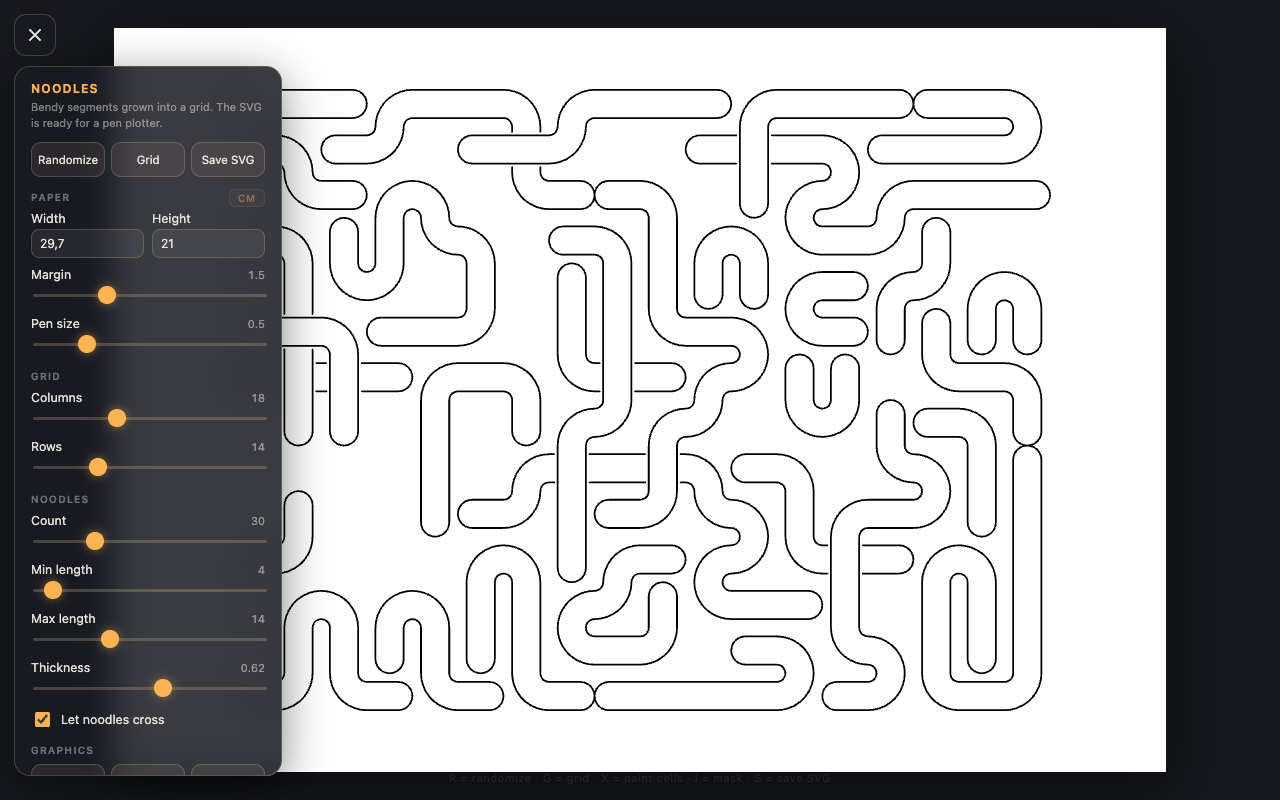
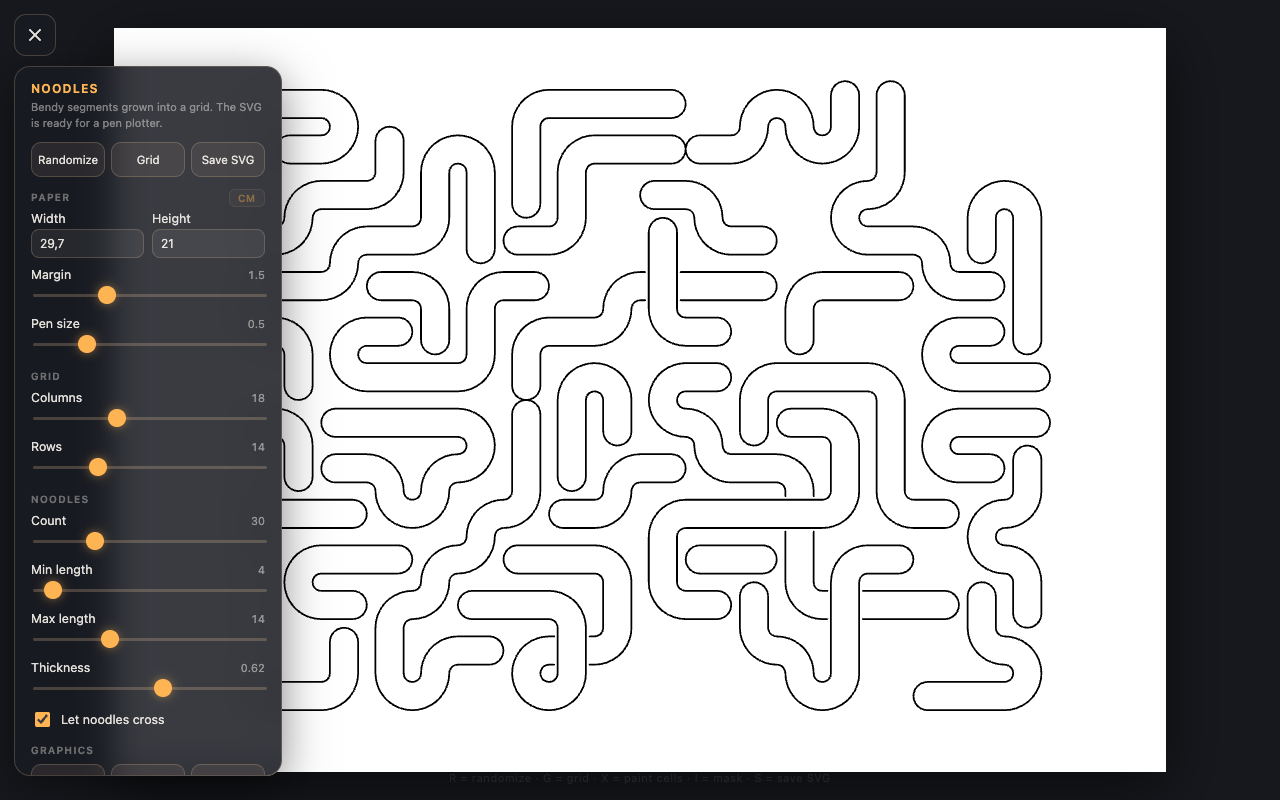
Noodles duerfen sich selbst kreuzen; Luecke haengt an der Laufachse statt am Noodle-Index

Changed region(s): [[0.2188, 0.0938, 0.8438, 0.9062], [0.5312, 0.0938, 0.5625, 0.1562]]

diff --git a/index.html b/index.html
@@ -426,7 +426,7 @@
     function settle(cells) {
       for (var i = 1; i < cells.length - 1; i++) {
         var cell = cells[i];
-        if (axis[cell] === 4) continue;
+        if (axis[cell] === 4 || axis[cell] === 1 || axis[cell] === 2) continue;
         var dxIn = cells[i] % gw - cells[i - 1] % gw;
         var dxOut = cells[i + 1] % gw - cells[i] % gw;
         var dyIn = Math.floor(cells[i] / gw) - Math.floor(cells[i - 1] / gw);
@@ -451,11 +451,10 @@
           continue;
         }
         var pick = opts[Math.floor(rnd() * opts.length)];
+        // Record the axis running underneath before overwriting it.
+        if (pick.cross !== undefined) crossings.set(pick.cross, axis[pick.cross]);
         pick.cells.forEach(function (cell) { axis[cell] = 3; });
-        if (pick.cross !== undefined) {
-          axis[pick.cross] = 4;
-          crossings.set(pick.cross, noodles.length);
-        }
+        if (pick.cross !== undefined) axis[pick.cross] = 4;
         if (atHead) {
           pick.cells.forEach(function (cell) { cells.push(cell); });
           head = pick.head;
@@ -463,12 +462,27 @@
           pick.cells.forEach(function (cell) { cells.unshift(cell); });
           tail = pick.head;
         }
+        // Straight cells become crossable right away, so a noodle can cross
+        // its own body: one right, one up, one left, two down.
+        settle(cells);
       }
 
-      if (cells.length > 1) { settle(cells); noodles.push(cells); }
+      if (cells.length > 1) noodles.push(cells);
       else axis[start] = 0;              // a lone cell is no noodle
     }
     return { noodles: noodles, crossings: crossings };
+  }
+
+  // A noodle is underneath wherever it runs along the axis the crossing
+  // recorded. The one going across it is on top and stays whole.
+  function crossGapsFor(cells, crossings) {
+    var out = [];
+    for (var i = 1; i < cells.length - 1; i++) {
+      var a = crossings.get(cells[i]);
+      if (!a) continue;
+      if ((Math.abs(cells[i + 1] - cells[i]) === 1 ? 1 : 2) === a) out.push(i);
+    }
+    return out;
   }
 
   // ---- drawing ------------------------------------------------------------
@@ -538,11 +552,7 @@
     }
     var d = [], uses = [];
     current.noodles.forEach(function (cells, j) {
-      // Cells another noodle crosses here belong to the one that came later.
-      var crossAt = [];
-      for (var i = 1; i < cells.length - 1; i++) {
-        if (current.crossings.get(cells[i]) > j) crossAt.push(i);
-      }
+      var crossAt = crossGapsFor(cells, current.crossings);
       var r = noodleParts(cells, c.gw, s, ox, oy, w, gfx, c.joiners, c.seed, j, penPx, crossAt);
       d.push(r.d);
       uses = uses.concat(r.uses);
@@ -864,23 +874,47 @@
     // of them run straight through it.
     var run = grow(20, 20, 60, 4, 14, 5, null, true);
     if (!run.crossings.size) throw new Error("no crossings at all");
-    run.crossings.forEach(function (owner, cell) {
-      var users = run.noodles.filter(function (n) { return n.indexOf(cell) >= 0; });
-      if (users.length !== 2) throw new Error("crossed cell is in " + users.length + " noodles");
-      users.forEach(function (n) {
-        var i = n.indexOf(cell);
-        if (i === 0 || i === n.length - 1) throw new Error("a noodle ends on a crossing");
-        var straight = (n[i] - n[i - 1]) === (n[i + 1] - n[i]);
-        if (!straight) throw new Error("a noodle turns on a crossing");
+    run.crossings.forEach(function (under, cell) {
+      var visits = 0;
+      run.noodles.forEach(function (n) {
+        n.forEach(function (c, i) {
+          if (c !== cell) return;
+          visits++;
+          if (i === 0 || i === n.length - 1) throw new Error("a noodle ends on a crossing");
+          if ((n[i] - n[i - 1]) !== (n[i + 1] - n[i])) throw new Error("a noodle turns on a crossing");
+        });
       });
+      if (visits !== 2) throw new Error("crossed cell visited " + visits + " times");
     });
     ok++;
 
+    // Across the whole drawing: every crossing is cut exactly once, on the run
+    // underneath, and left whole on the run going over it.
+    (function () {
+      var gapCount = new Map();
+      run.noodles.forEach(function (n) {
+        crossGapsFor(n, run.crossings).forEach(function (i) {
+          gapCount.set(n[i], (gapCount.get(n[i]) || 0) + 1);
+        });
+      });
+      run.crossings.forEach(function (a, cell) {
+        if (gapCount.get(cell) !== 1) {
+          throw new Error("cell " + cell + " cut " + (gapCount.get(cell) || 0) + " times");
+        }
+      });
+      ok++;
+    })();
+
+    // One right, one up, one left, two down: the noodle passes over itself, and
+    // the gap belongs to the horizontal run, not the vertical one.
+    var selfCross = [10, 11, 12, 13, 8, 7, 12, 17];   // gw 5, cell 12 twice
+    var gapsAt = crossGapsFor(selfCross, new Map([[12, 1]]));
+    eq(gapsAt.length, 1, "one gap on a self crossing");
+    eq(gapsAt[0], 2, "the gap sits on the horizontal pass");
+    eq(crossGapsFor(selfCross, new Map([[12, 2]]))[0], 6, "mirrored, the gap moves to the vertical pass");
+
     // The lower noodle of a crossing is cut open, the upper one is not.
-    var lower = run.noodles[0], cut = [];
-    for (var ci = 1; ci < lower.length - 1; ci++) {
-      if (run.crossings.get(lower[ci]) > 0) cut.push(ci);
-    }
+    var lower = run.noodles[0], cut = crossGapsFor(lower, run.crossings);
     if (cut.length) {
       var over = noodleParts(lower, 20, 100, 0, 0, 60, {}, 0, 1, 0, 1, cut);
       var plain = noodleParts(lower, 20, 100, 0, 0, 60, {}, 0, 1, 0, 1, []);

diff --git a/README.md b/README.md
@@ -41,9 +41,13 @@ Blocked cells and the grid are drawing aids and never end up in the saved SVG.
 
 With **Let noodles cross** on, a noodle may run straight over one that is already
 there, as long as it meets it at a right angle in a straight section and the cell
-behind is free. The one that came later passes over; the one underneath is cut open
-with a little air on each side, so the gap survives into the plot instead of being a
-trick of the screen.
+behind is free. That includes crossing its own body: one right, one up, one left, two
+down, and the noodle passes over itself.
+
+Every cell records whether the run through it was horizontal or vertical. The run
+along that recorded axis is the one underneath, so it gets cut open with a little air
+on each side, while the run going across it stays whole. The gap is real geometry and
+survives into the plot instead of being a trick of the screen.
 
 ## Graphics
 
